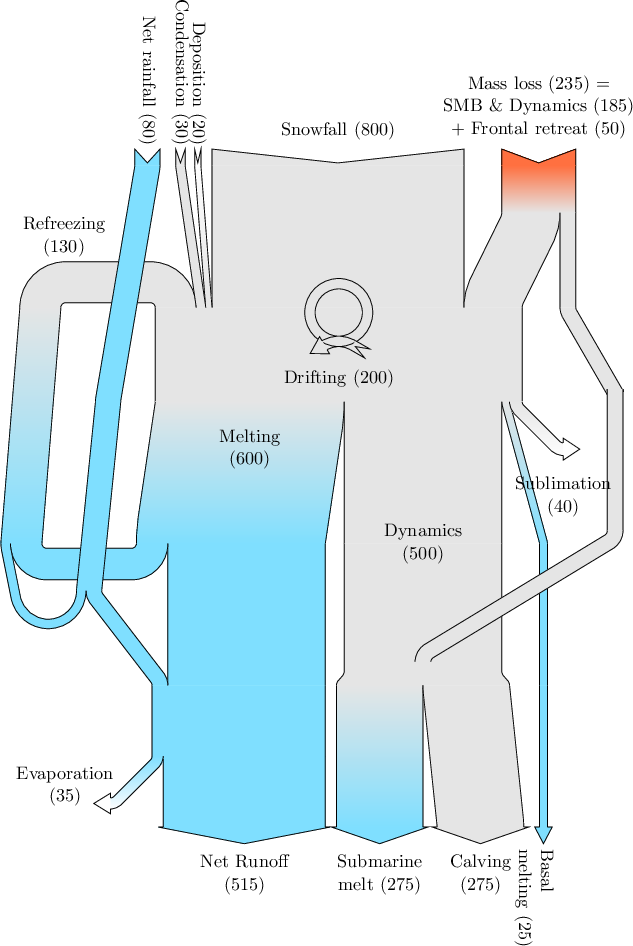
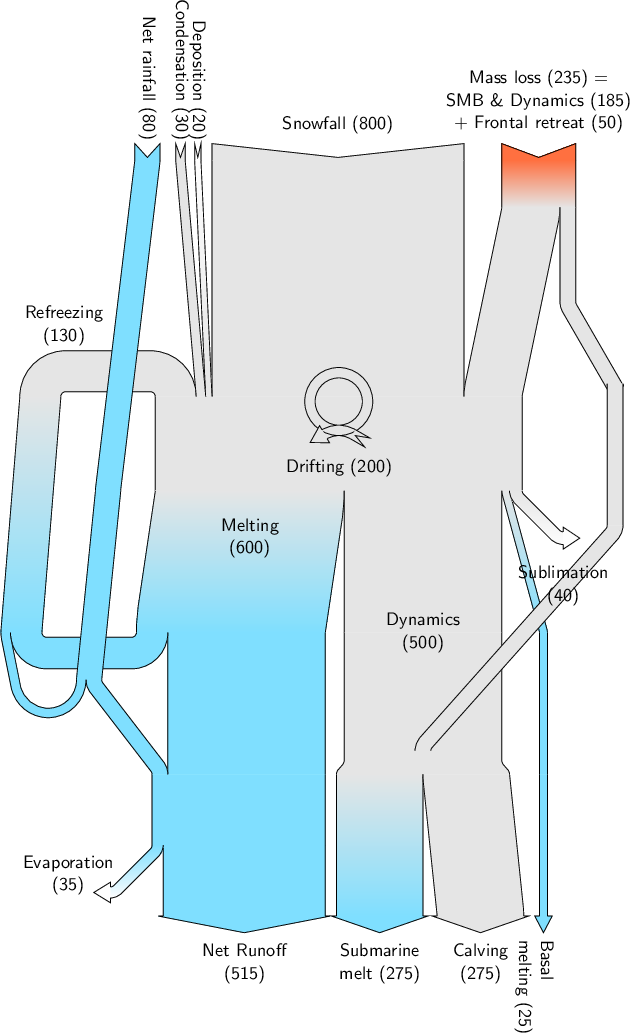
Update w/ MAR values and Antarctic (all/E/W)

Changed region(s): [[0.0, 0.0, 1.0, 1.0], [0.6032, 0.5518, 0.7238, 0.6438], [0.5127, 0.2759, 0.5429, 0.3066]]

diff --git a/tex/gl_sankey.tex b/tex/gl_sankey.tex
@@ -158,7 +158,7 @@
 
     %%% INPUTS
 
-    \sankeynode{name=SF, quantity=\Q{SF}, at={[xshift=0, yshift=3cm]GROSS-from-SF.center}, align=center}
+    \sankeynode{name=SF, quantity=\Q{SF}, at={[xshift=0, yshift=5cm]GROSS-from-SF.center}, align=center}
     \sankeynode{name=DP, quantity=\Q{DP}, at={[xshift=-3mm, yshift=0]SF.right}, align=left}
     \sankeynode{name=CD, quantity=\Q{CD}, at={[xshift=-3mm, yshift=0]DP.right}, align=left}
     \sankeynode{name=RF-NET, quantity=\Q{RF}+\Q{RF-LIQ}, at={[xshift=-6mm, yshift=0]CD.right}, align=left}
@@ -188,6 +188,9 @@
     \sankeyset{ice}
     \sankeynode{ name=ML, quantity=\Q{FRET}+\Q{IL}, at={[xshift=8mm]SF.left}, anchor=right}
     \sankeystart[red]{ML}
+    %% \sankeynode{ name=ML_start, quantity=\Q{FRET}+\Q{IL}, at={[xshift=8mm]SF.left}, 
+      anchor=left, angle=90}
+    %% \sankeyend[red]{ML_start}
     \sankeyadvance[red-to-ice]{ML}{1cm}
     \sankeyfork{ML}{\Q{FRET}/FRET, \Q{IL}/IL}
     \sankeydubins[minimum radius=2mm]{IL}{GROSS-from-IL}
